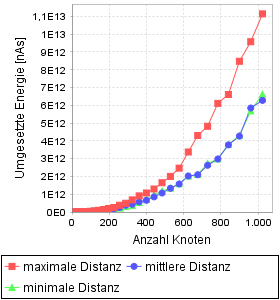
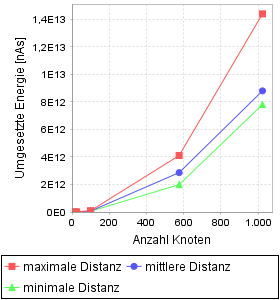
FloodingEvaluationUnit an Netzwerk-Groessen angepasst

diff --git a/src/Simulator/Main.java b/src/Simulator/Main.java
@@ -10,8 +10,8 @@ public class Main {
 
 		
 		FloodingEvaluationUnit floodingEvaluationUnit = new FloodingEvaluationUnit();
-		//floodingEvaluationUnit.evaluateSpeedAnalysis();
-		//floodingEvaluationUnit.evaluateKostAnalysis();
+		floodingEvaluationUnit.evaluateSpeedAnalysis();
+		floodingEvaluationUnit.evaluateCostAnalysis();
 		//floodingEvaluationUnit.evaluateNetworkLivetimeStochasticSendBehavior();
 		
 		//floodingEvaluationUnit.evaluateNetworkLivetimeStaticSendBehavior();
@@ -22,7 +22,7 @@ public class Main {
 		//floodingEvaluationUnit.evaluateNetworkPartitioningAnalysis(1000);
 		
 		AodvEvaluationUnit aodvEvaluationUnit = new AodvEvaluationUnit();
-		aodvEvaluationUnit.evaluateSpeedAnalysis();
+		//aodvEvaluationUnit.evaluateSpeedAnalysis();
 		//aodvEvaluationUnit.evaluateCostAnalysis();
 		//aodvEvaluationUnit.evaluateNetworkLivetimeStaticSendBehavior(1);
 		//aodvEvaluationUnit.evaluateNetworkLivetimeStaticSendBehavior(10);

diff --git a/src/SimulationNetwork/NetworkNode.java b/src/SimulationNetwork/NetworkNode.java
@@ -53,7 +53,7 @@ public abstract class NetworkNode {
 		inputBuffer = new LinkedList<Message>();
 		outputBuffer = new LinkedList<Message>();
 		// availableEnery = 4600L*3600L*1000L*1000L;
-		availableEnery = NODE_BATTERY_ENERGY_FOR_ONE_HOUR_IN_IDLE_MODE;
+		availableEnery = NODE_BATTERY_ENERGY_FOR_ONE_DAY_IN_IDLE_MODE;
 		idleTime = 0L;
 		reciveTime = 0L;
 		transmissionTime = 0L;
